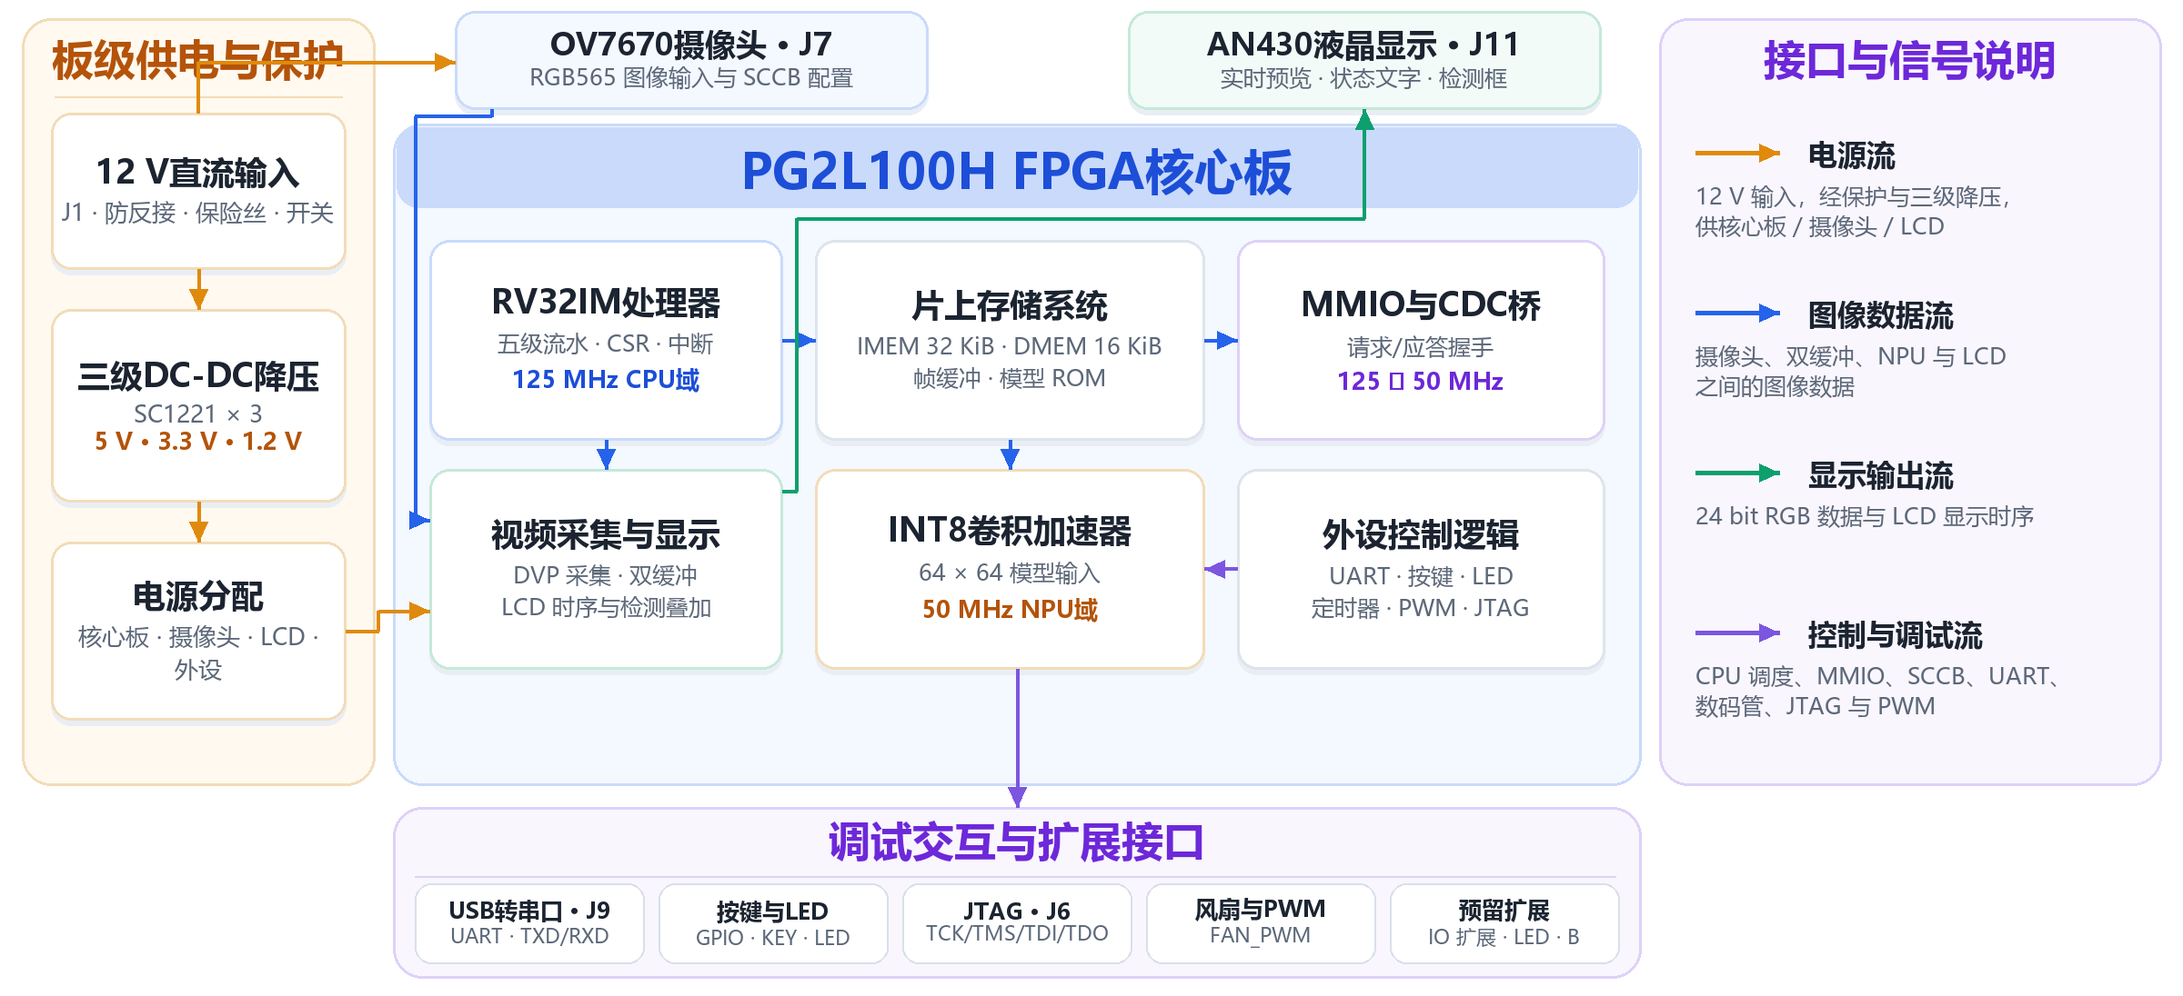
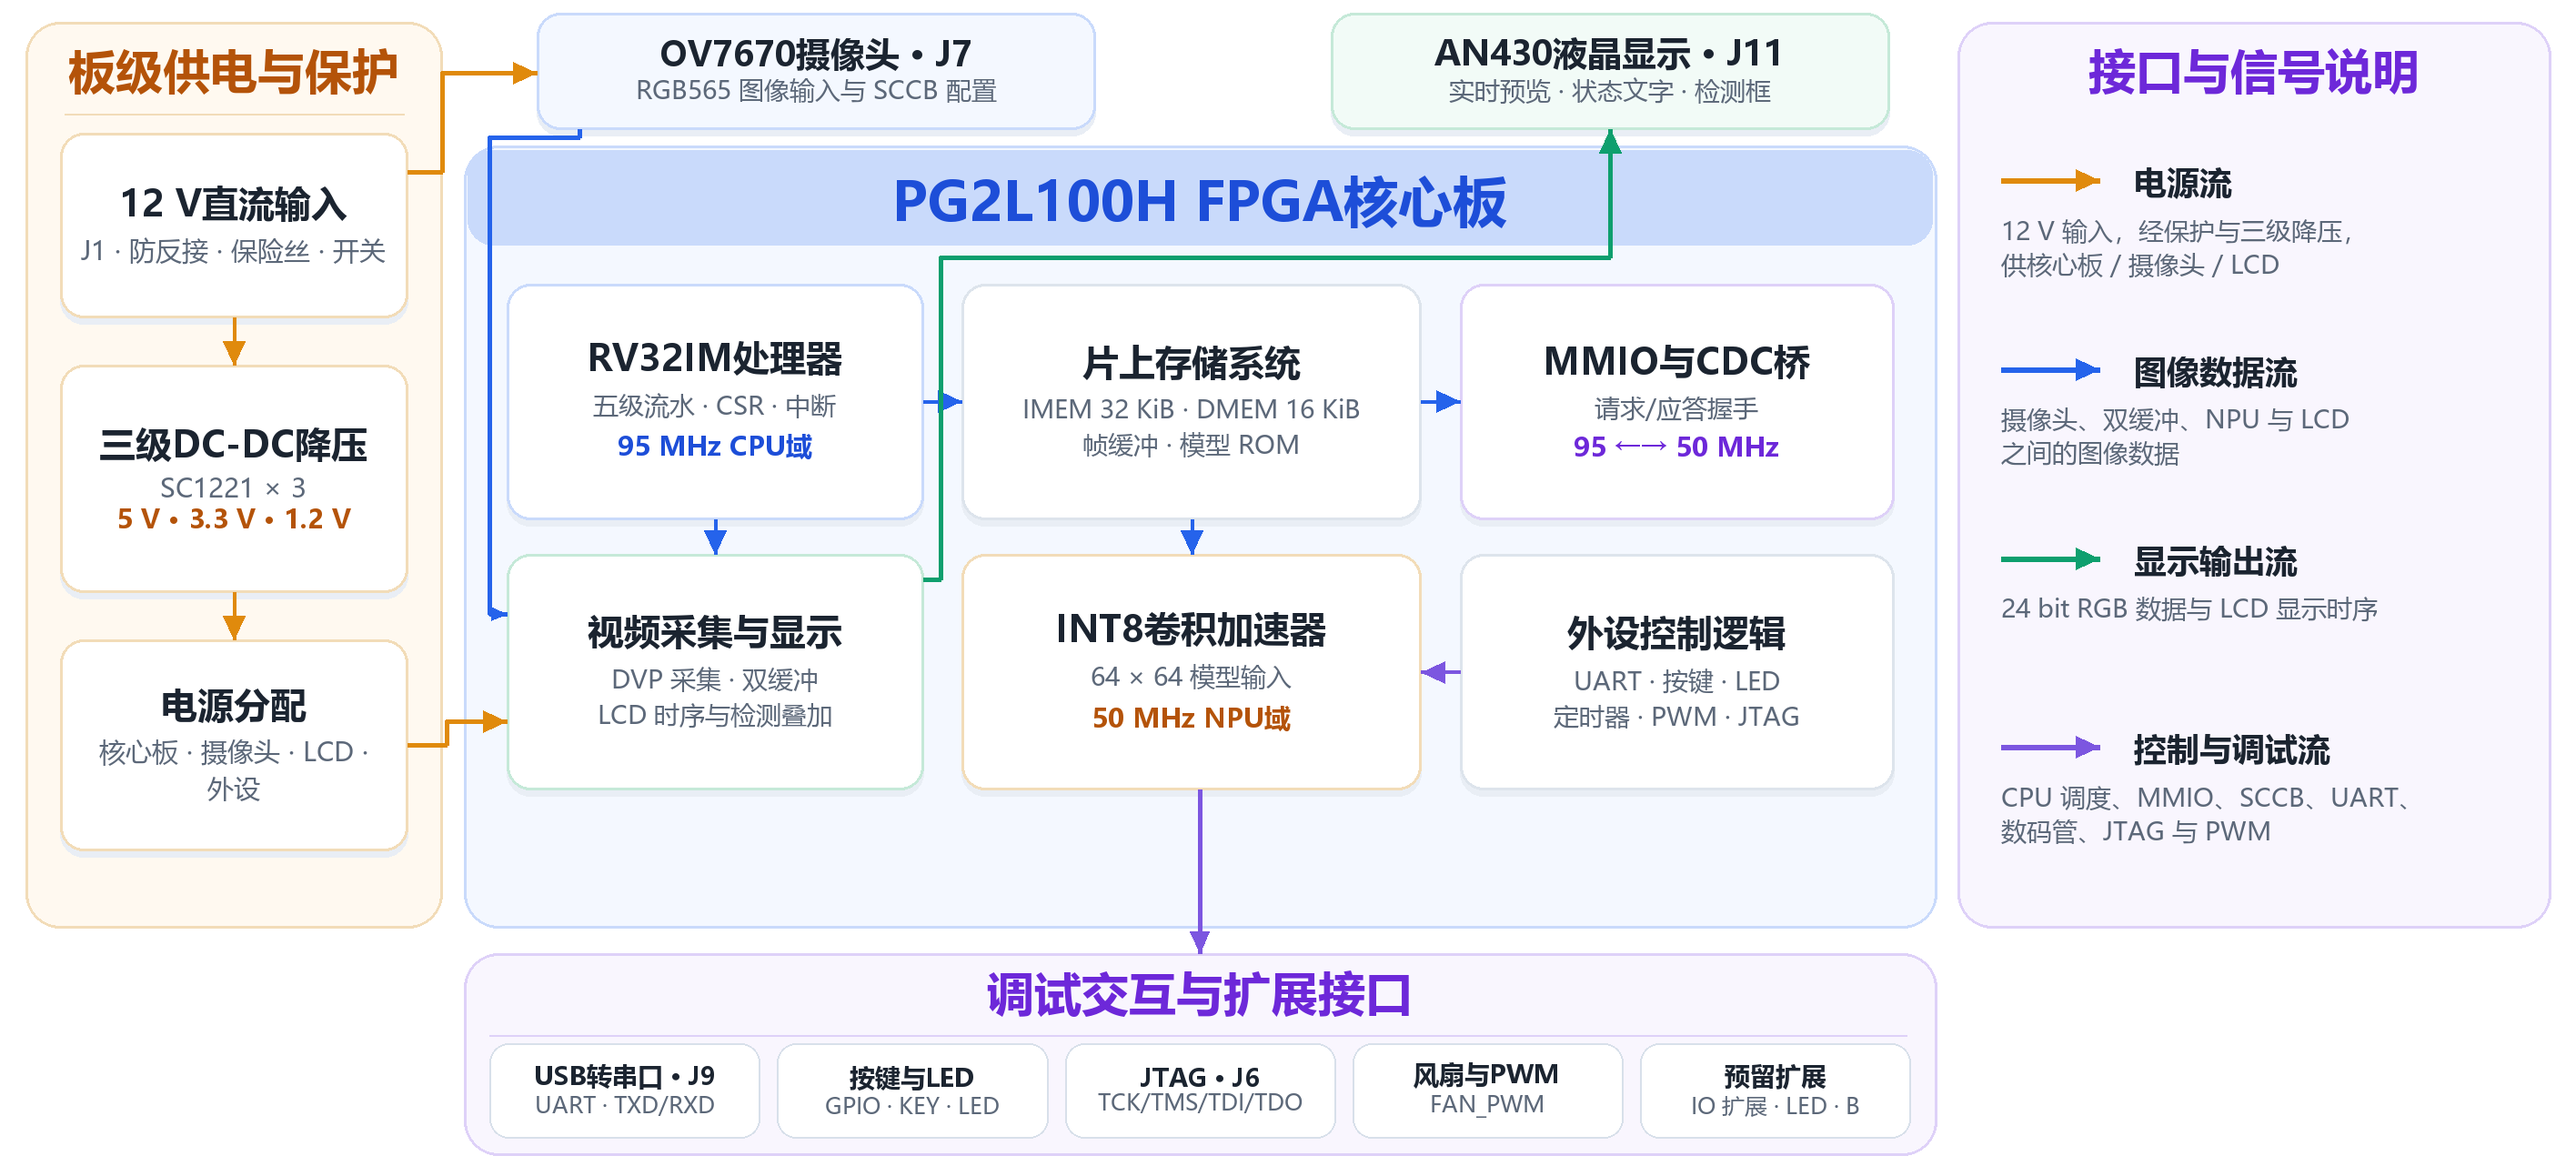
docs(figures): 更新两张设计图 (fig1 设计流程 / fig2 硬件架构)
误提交说明: 上一提交 a26145d 的 message 写成了"明确本版本不含 DDR3", 实际内容是本目录
两张设计图及其生成脚本的更新。此处仅修正提交说明, 不改内容。
（"本版本不含 DDR3" 的正式声明已正确提交到 submission/ 独立仓库: 72efb49）

diff --git a/docs/figures/draw_report_figures.py b/docs/figures/draw_report_figures.py
@@ -31,6 +31,11 @@ fig1()/fig2() 的数据区，改样式不动内容，改内容不动样式。
    连接线走廊，跨区连线不再压住标题与节点文字。
 6. 数据标签：节点内主文/辅助小字/彩色强调行分三层排版；
    判断分支标签加浅色底衬；连线按"流"着色并统一箭头尺寸。
+7. 疏排（v2）：图 1 画布 1200×604 → 1480×800，节点放大 1.2×、字号 1.12×、
+   间距放大更多；跨区连线按 y=152 / 410 / 428 / 495 / 600 / 746 分配独立
+   通道，绿/橙两路不再汇合共线，「未通过」回环改走右侧外通道，紫色回卷
+   改走左侧外通道，全程不与任何节点、文字或其他连线重叠。图 2 采用
+   几何 ×1.18、字号 ×1.12 的等比疏排，连线拓扑保持不变。
 """
 
 from __future__ import annotations
@@ -93,11 +98,14 @@ STYLE = {
 
 # ---------------------------------------------------------------------------
 # 内容数据：文字与拓扑的唯一来源。优化视觉时不要改动这一段的语义。
+# 频率口径：以 fpga_pg2l100h/vision/CURRENT-BUILD.md（当前烧录版）为准 ——
+#   CPU / IMEM / DMEM = 95 MHz（双发射），MMIO / NPU / 采集 = 50 MHz。
+#   125 MHz 是上一版单发射的历史配置，仓库里 CLOCK_SPLIT.md 等旧文档仍写 125，勿据此回填。
 # ---------------------------------------------------------------------------
 FIG1_FLOW = {
     "blue": ["RV32IM指令集\n与功能划分", "五级流水线\n结构设计", "分支预测 · 旁路\n冒险处理",
              "CPU模块化\nRTL实现", "指令与流水线\n仿真验证"],
-    "green": ["IMEM / DMEM\nMMIO地址空间", "请求应答桥\n125 ↔ 50\nMHz",
+    "green": ["IMEM / DMEM\nMMIO\n地址空间", "请求应答桥\n95 ↔ 50\nMHz",
               "摄像头 ·\nLCD\nUART外设", "INT8卷积\n加速器"],
     "amber": ["视觉模型\n训练", "INT8\n量化转换", "权重 · 偏置\n移位参数", "阈值 · 解码\nNMS固件"],
     "violet_top": ["CPU调度NPU\n结果读取", "严格Verilog\n编译", "模块仿真", "整机仿真",
@@ -114,9 +122,9 @@ FIG2_BOARD = {
         ("电源分配", "核心板 · 摄像头 · LCD ·\n外设", ""),
     ],
     "modules": [
-        ("RV32IM处理器", "五级流水 · CSR · 中断", "125 MHz CPU域", "blue"),
+        ("RV32IM处理器", "五级流水 · CSR · 中断", "95 MHz CPU域", "blue"),
         ("片上存储系统", "IMEM 32 KiB · DMEM 16 KiB\n帧缓冲 · 模型 ROM", "", "slate"),
-        ("MMIO与CDC桥", "请求/应答握手", "125 ↔ 50 MHz", "violet"),
+        ("MMIO与CDC桥", "请求/应答握手", "95 ↔ 50 MHz", "violet"),
         ("视频采集与显示", "DVP 采集 · 双缓冲\nLCD 时序与检测叠加", "", "green"),
         ("INT8卷积加速器", "64 × 64 模型输入", "50 MHz NPU域", "amber"),
         ("外设控制逻辑", "UART · 按键 · LED\n定时器 · PWM · JTAG", "", "slate"),
@@ -151,23 +159,27 @@ def fix_glyphs(s: str) -> str:
 class Canvas:
     """逻辑坐标画布；所有绘制统一按 scale 放大，保证高分输出。"""
 
-    def __init__(self, width: int, height: int, scale: int = 2):
+    def __init__(self, width: int, height: int, scale: int = 2,
+                 font_scale: float = 1.0, layout_scale: float = 1.0):
         self.w, self.h, self.s = width, height, scale
-        self.im = Image.new("RGB", (width * scale, height * scale), STYLE["paper"])
+        # 几何放大系数 > 字号放大系数 ⇒ 净增留白；两者比例不变 ⇒ 风格不变
+        self.layout_scale, self.font_scale = layout_scale, font_scale
+        self.im = Image.new("RGB", (self.P(width), self.P(height)), STYLE["paper"])
         self.d = ImageDraw.Draw(self.im)
         self._fonts: dict = {}
 
     def P(self, v: float) -> int:
-        return int(round(v * self.s))
+        return int(round(v * self.s * self.layout_scale))
 
     def box(self, b: Sequence[float]):
         return tuple(self.P(v) for v in b)
 
     def font(self, size: float, bold: bool = False):
-        key = (round(size * self.s, 1), bold)
+        px = max(1, int(round(size * self.s * self.font_scale)))
+        key = (px, bold)
         if key not in self._fonts:
             path = STYLE["font_bold"] if bold else STYLE["font_regular"]
-            self._fonts[key] = ImageFont.truetype(path, self.P(size))
+            self._fonts[key] = ImageFont.truetype(path, px)
         return self._fonts[key]
 
     def color(self, tone: str, role: str = "main") -> str:
@@ -340,8 +352,8 @@ class Canvas:
                   STYLE["fs"]["chip"], self.color(tone, "deep"), bold=True)
 
     def branch_label(self, x, y, text, tone):
-        b = (x - 24, y - 11, x + 24, y + 11)
-        self.rr(b, 9, self.color(tone, "tint"), None)
+        b = (x - 30, y - 13, x + 30, y + 13)
+        self.rr(b, 10, self.color(tone, "tint"), None)
         self.text(x, y, text, STYLE["fs"]["branch"],
                   self.color(tone, "deep"), bold=True)
 
@@ -360,68 +372,78 @@ class Canvas:
 # 图 1：处理器设计与系统联调流程
 # ---------------------------------------------------------------------------
 def fig1(scale: int = 2) -> Image.Image:
-    W, H = 1200, 604
-    c = Canvas(W, H, scale)
+    """疏排版：画布与间距放大，跨区连线各自占用独立通道，互不共线/交叉/穿节点。
+
+    通道分配（逻辑 y 坐标，全部落在分区之间的空白走廊内）：
+      y=152  蓝区 → SoC / 模型部署（左右两段，x 区间不重叠）
+      y=410  SoC → 系统联调        绿，落点 x=100
+      y=428  模型部署 → 系统联调  橙，落点 x=250（与绿线平行分离）
+      y=495  红色「未通过」回环    走第一行上方 + 右侧外通道
+      y=600  紫色回卷              走两行之间 + 左侧外通道
+      y=746  回环下行              走第二行下方
+    """
+    W, H = 1480, 800
+    c = Canvas(W, H, scale, font_scale=1.12)
     fs = STYLE["fs"]
 
-    TOP = (16, 12, 1184, 108)
-    GREEN = (16, 124, 588, 312)
-    AMBER = (596, 124, 1184, 312)
-    BOT = (16, 324, 1184, 592)
+    TOP = (22, 16, 1458, 140)
+    GREEN = (22, 170, 720, 400)
+    AMBER = (760, 170, 1458, 400)
+    BOT = (22, 436, 1458, 784)
 
     # 分区（先画底，连接线随后，节点最后覆盖线端）
-    c.panel(TOP, "处理器设计", "blue", title_y=29)
-    c.panel(GREEN, "SoC与外设集成", "green", title_y=148)
-    c.panel(AMBER, "模型与固件部署", "amber", title_y=148)
-    c.panel(BOT, "系统联调与逐级验证", "violet", title_y=348)
+    c.panel(TOP, "处理器设计", "blue", title_y=44)
+    c.panel(GREEN, "SoC与外设集成", "green", title_y=202)
+    c.panel(AMBER, "模型与固件部署", "amber", title_y=202)
+    # 底部让出 y≈495 的回环通道，故不画标题分隔线
+    c.panel(BOT, "系统联调与逐级验证", "violet", title_y=464, divider=False)
 
-    # 节点几何
-    top_boxes, top_y, top_w, top_gap = [], 56, 200, 32
-    for i in range(5):
-        x = 34 + i * (top_w + top_gap)
-        top_boxes.append((x, top_y, x + top_w, top_y + 48))
+    # 节点几何：节点放大 1.2 倍，间距放大更多 ⇒ 净增留白
+    top_w, top_gap, top_y, top_h = 240, 42, 76, 56
+    top_boxes = [(56 + i * (top_w + top_gap), top_y,
+                  56 + i * (top_w + top_gap) + top_w, top_y + top_h)
+                 for i in range(5)]
 
-    side_w, side_gap, side_y, side_h = 126, 14, 178, 80
-    green_boxes = [(28 + i * (side_w + side_gap), side_y,
-                    28 + i * (side_w + side_gap) + side_w, side_y + side_h)
+    side_w, side_gap, side_y, side_h = 150, 26, 236, 94
+    green_boxes = [(32 + i * (side_w + side_gap), side_y,
+                    32 + i * (side_w + side_gap) + side_w, side_y + side_h)
                    for i in range(4)]
-    amber_boxes = [(608 + i * (side_w + side_gap), side_y,
-                    608 + i * (side_w + side_gap) + side_w, side_y + side_h)
+    amber_boxes = [(770 + i * (side_w + side_gap), side_y,
+                    770 + i * (side_w + side_gap) + side_w, side_y + side_h)
                    for i in range(4)]
 
-    vt_y, vt_h = 378, 52
-    vt_boxes = [(34 + i * (top_w + top_gap), vt_y,
-                 34 + i * (top_w + top_gap) + top_w, vt_y + vt_h) for i in range(5)]
-    vb_y, vb_h = 470, 52
-    vb_boxes = [(34 + i * (top_w + top_gap), vb_y,
-                 34 + i * (top_w + top_gap) + top_w, vb_y + vb_h) for i in range(3)]
-    dia_cx, dia_cy, dia_w, dia_h = 818, 496, 140, 76
-    done_box = (952, 468, 1162, 524)
-    loop_pill = (620, 550, 900, 582)
+    vt_y, vt_h = 518, 62
+    vt_boxes = [(56 + i * (top_w + top_gap), vt_y,
+                 56 + i * (top_w + top_gap) + top_w, vt_y + vt_h) for i in range(5)]
+    vb_y, vb_h = 636, 62
+    vb_boxes = [(56 + i * (top_w + top_gap), vb_y,
+                 56 + i * (top_w + top_gap) + top_w, vb_y + vb_h) for i in range(3)]
+    dia_cx, dia_cy, dia_w, dia_h = 1010, 667, 170, 92
+    done_box = (1180, 632, 1424, 704)
+    loop_pill = (780, 728, 1160, 764)
 
-    # --- 跨区连接（走分区间预留走廊，不压标题） ---
-    c.link([(100, 104), (100, 178)], "green")                   # 处理器设计 → SoC
-    c.link([(1162, 78), (1172, 78), (1172, 116),
-            (672, 116), (672, 178)], "amber")                   # 处理器设计 → 模型部署
-    c.link([(518, 258), (518, 318)], "green", arrow=False)      # SoC → 联调汇合点
-    c.link([(1114, 258), (1114, 318), (134, 318), (134, 378)], "amber")
-    c.d.ellipse((c.P(514), c.P(314), c.P(522), c.P(322)), fill=c.color("green"))
-    c.link([(1062, 430), (1062, 450), (134, 450), (134, 470)], "violet")  # 回卷到第二行
+    # --- 跨区连接：每条独立通道，不共线、不交叉 ---
+    c.link([(176, 132), (176, 152), (107, 152), (107, 236)], "green")
+    c.link([(1424, 104), (1444, 104), (1444, 152), (845, 152), (845, 236)], "amber")
+    c.link([(635, 330), (635, 410), (100, 410), (100, 518)], "green")
+    c.link([(1373, 330), (1373, 428), (250, 428), (250, 518)], "amber")
+    c.link([(1304, 580), (1304, 600), (40, 600), (40, 667), (56, 667)], "violet")
 
     # --- 区内水平箭头 ---
-    for boxes, tone, y in ((top_boxes, "blue", 80), (green_boxes, "green", 218),
-                           (amber_boxes, "amber", 218), (vt_boxes, "violet", 404)):
+    for boxes, tone, y in ((top_boxes, "blue", 104), (green_boxes, "green", 283),
+                           (amber_boxes, "amber", 283), (vt_boxes, "violet", 549)):
         for a, b in zip(boxes, boxes[1:]):
-            c.link([(a[2] + 4, y), (b[0] - 5, y)], tone, width=1.9)
+            c.link([(a[2] + 5, y), (b[0] - 6, y)], tone, width=1.9)
     for a, b in zip(vb_boxes, vb_boxes[1:]):
-        c.link([(a[2] + 4, 496), (b[0] - 5, 496)], "violet", width=1.9)
-    c.link([(vb_boxes[2][2] + 4, 496), (dia_cx - dia_w / 2 - 5, 496)], "violet")
+        c.link([(a[2] + 5, 667), (b[0] - 6, 667)], "violet", width=1.9)
+    c.link([(vb_boxes[2][2] + 5, 667), (dia_cx - dia_w / 2 - 6, 667)], "violet")
 
-    # 判断分支
-    c.link([(dia_cx + dia_w / 2 + 4, 496), (done_box[0] - 5, 496)], "green")
-    c.link([(dia_cx, dia_cy + dia_h / 2 + 2), (dia_cx, 550)], "red", arrow=False, dash=True)
-    c.link([(loop_pill[0] - 4, 566), (366, 566), (366, vt_y + vt_h + 5)],
-           "red", dash=True)
+    # 判断分支与回路
+    c.link([(dia_cx + dia_w / 2 + 5, 667), (done_box[0] - 6, 667)], "green")
+    c.link([(dia_cx, dia_cy + dia_h / 2 + 2), (dia_cx, 728)], "red",
+           arrow=False, dash=True)
+    c.link([(loop_pill[2] + 4, 746), (1430, 746), (1430, 495),
+            (458, 495), (458, 518)], "red", dash=True)
 
     # --- 节点 ---
     for b, t in zip(top_boxes, FIG1_FLOW["blue"]):
@@ -444,9 +466,8 @@ def fig1(scale: int = 2) -> Image.Image:
            "设计完成", fs["node"] + 1, STYLE["green"]["deep"], bold=True)
     c.pill(loop_pill, "问题定位：修改RTL / 约束 / 器件")
 
-    c.branch_label(906, 474, "通过", "green")
-    # 标签避开菱形正下方的红色虚线，避免遮住「未通过」回路
-    c.branch_label(886, 540, "未通过", "red")
+    c.branch_label(1137, 645, "通过", "green")
+    c.branch_label(1130, 714, "未通过", "red")
     return c.im
 
 
@@ -455,7 +476,8 @@ def fig1(scale: int = 2) -> Image.Image:
 # ---------------------------------------------------------------------------
 def fig2(scale: int = 2) -> Image.Image:
     W, H = 1200, 548
-    c = Canvas(W, H, scale)
+    # 等比疏排：几何 ×1.18、字号 ×1.12 ⇒ 净增留白；连线拓扑与上一版一致
+    c = Canvas(W, H, scale, font_scale=1.12, layout_scale=1.18)
     fs = STYLE["fs"]
 
     POWER = (12, 10, 206, 432)
